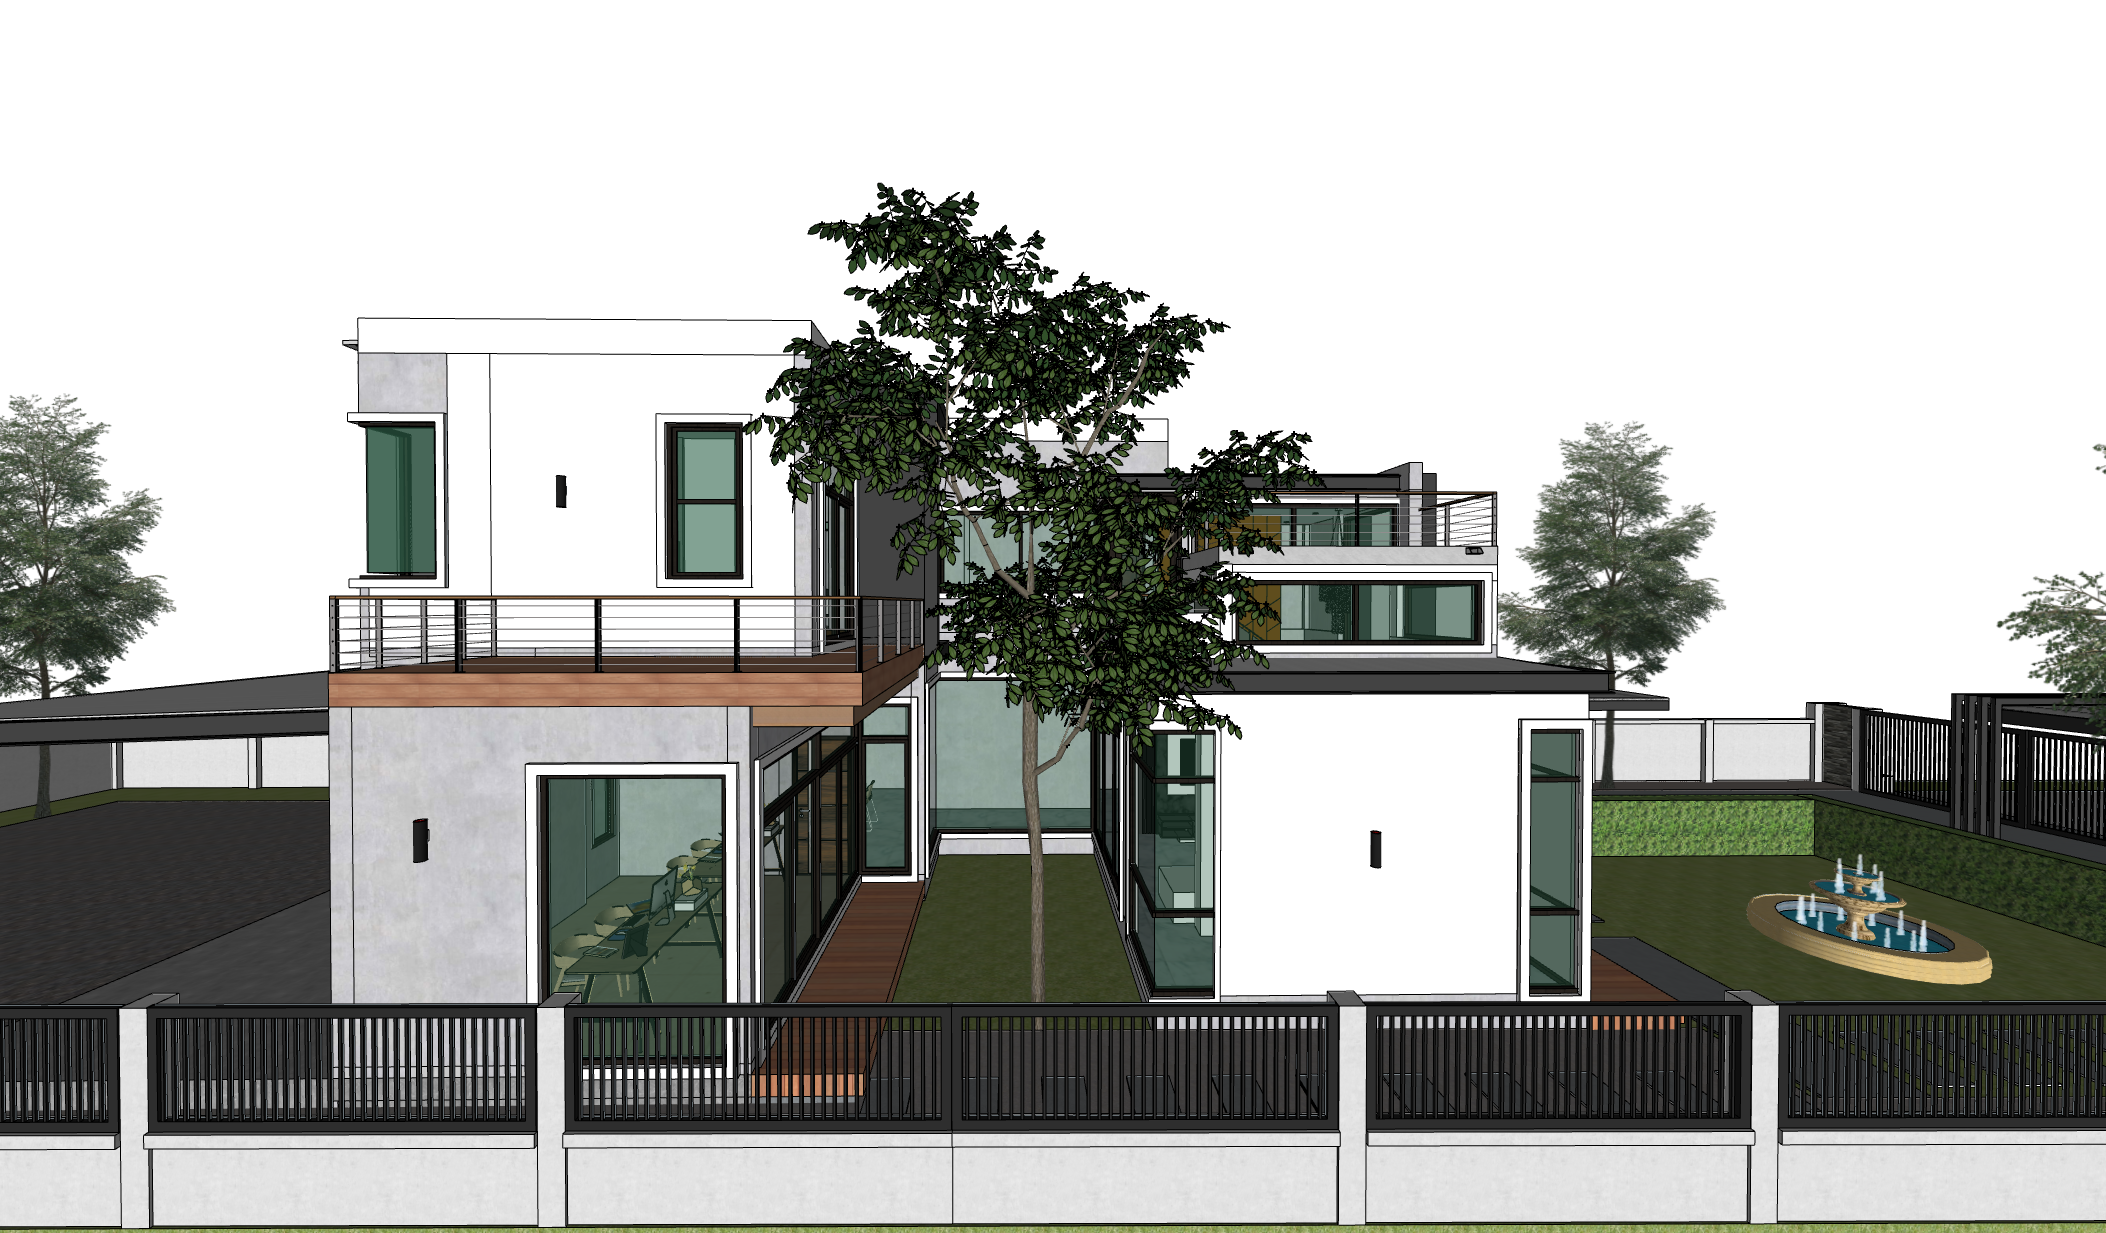
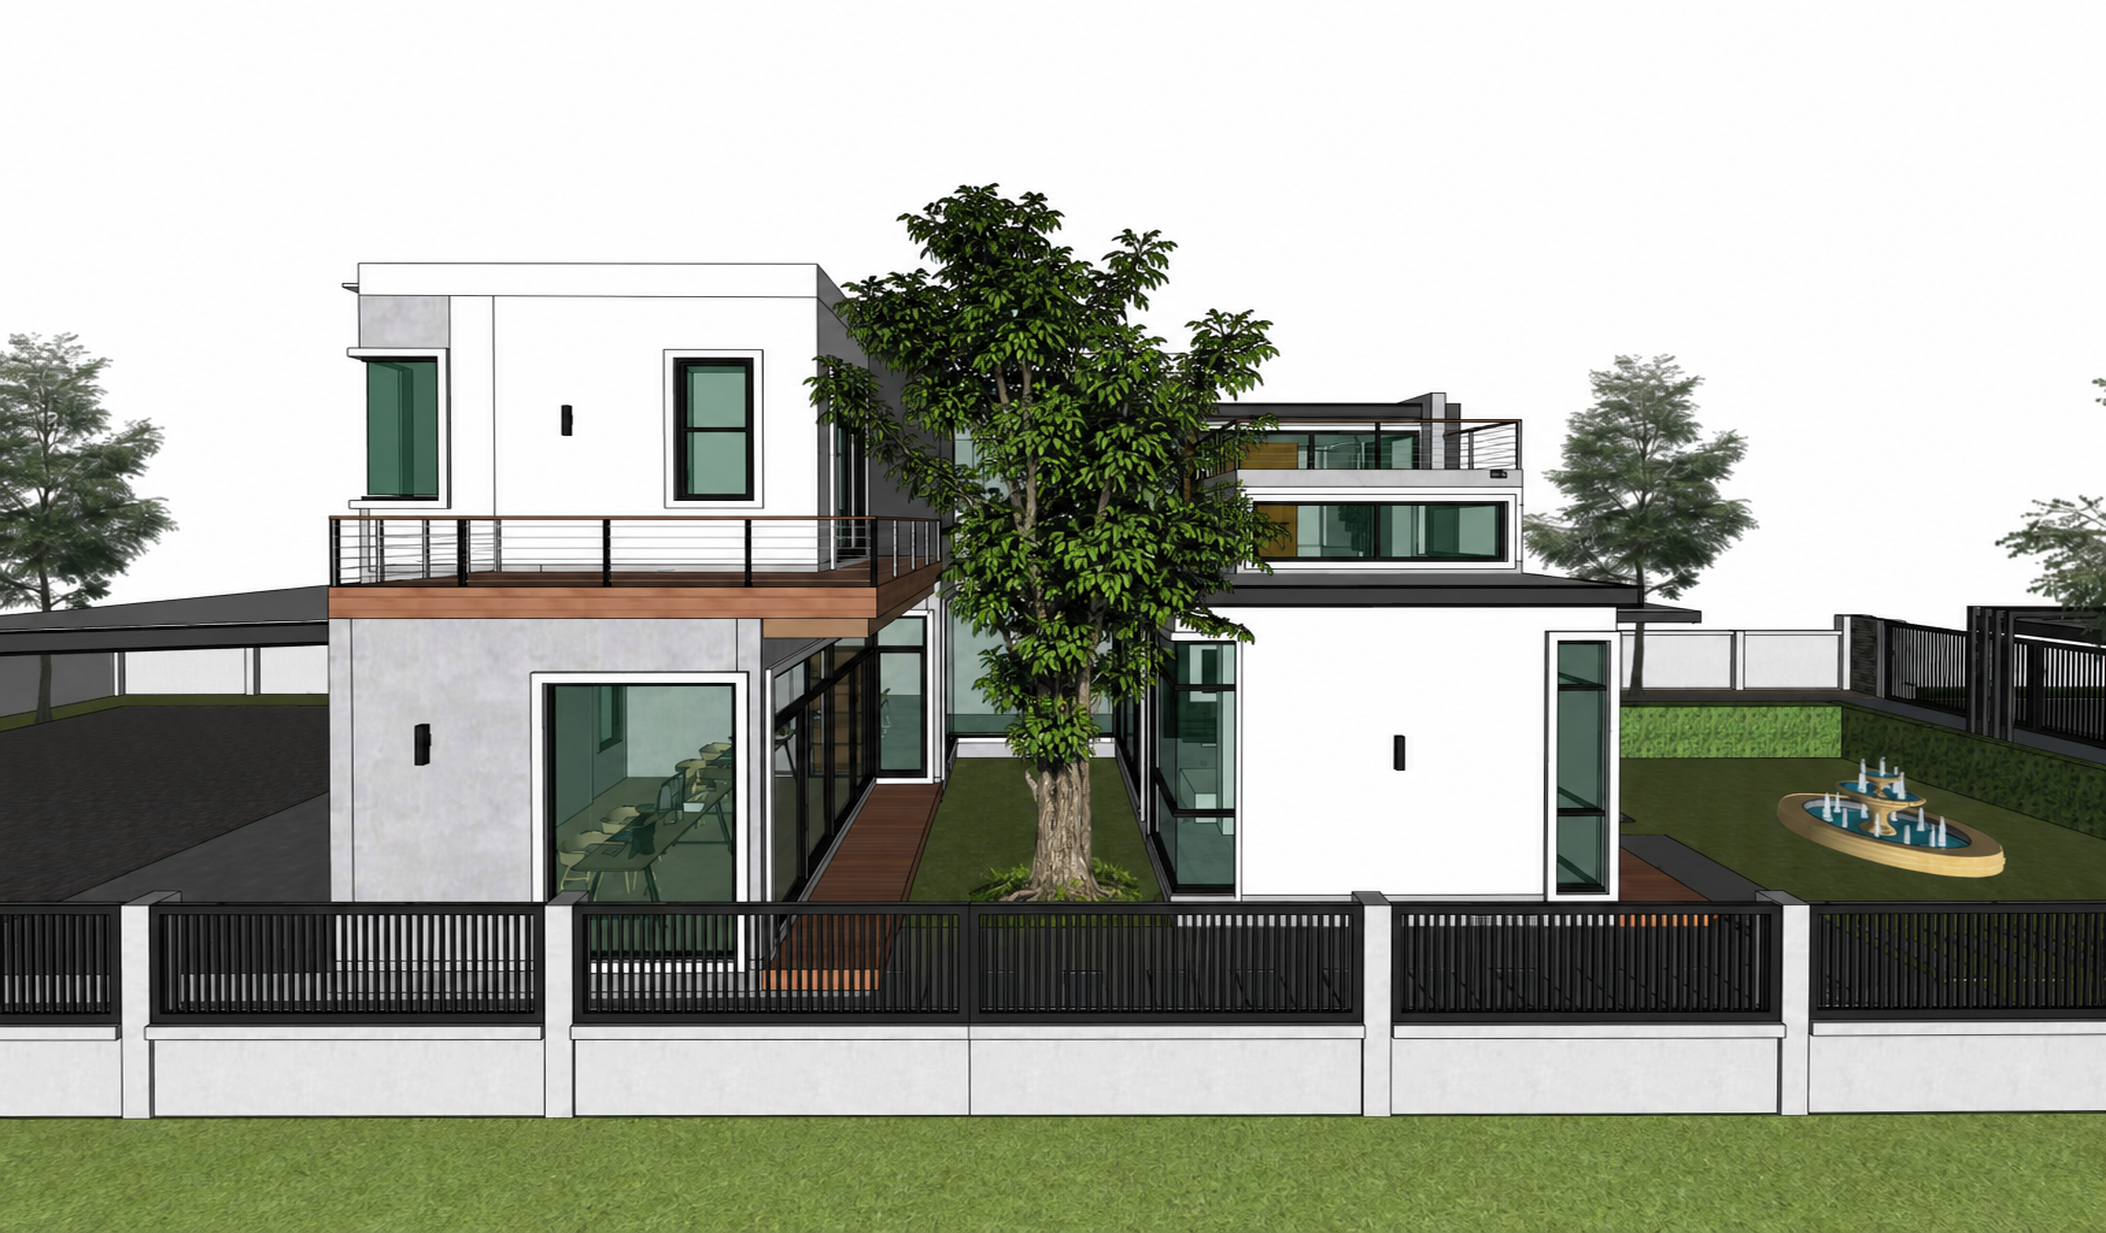
จิกระย้า

diff --git a/outline/home.html b/outline/home.html
@@ -982,17 +982,18 @@
 
                 <!-- 6. ข้างบ้านฝั่งซ้าย ตรงกลาง -->
                 <div class="image-card" data-zone="left" data-name="ข้างบ้านฝั่งซ้าย ตรงกลาง left side middle center">
-                    <div class="image-wrapper" onclick="openModal('../resources/ข้างบ้านฝั่งซ้ายตรงกลาง.png', 'ข้างบ้านฝั่งซ้าย ตรงกลาง (Left Middle View)')">
+                    <div class="image-wrapper" id="wrapper-left-middle" onclick="openModal('../resources/ข้างบ้านฝั่งซ้ายตรงกลาง_designed.png', 'ข้างบ้านฝั่งซ้าย ตรงกลาง (หลังจัดสวน)')">
                         <span class="zone-badge">ข้างบ้านฝั่งซ้าย</span>
-                        <img src="../resources/ข้างบ้านฝั่งซ้ายตรงกลาง.png" alt="ข้างบ้านฝั่งซ้ายตรงกลาง">
+                        <img id="img-left-middle" src="../resources/ข้างบ้านฝั่งซ้ายตรงกลาง_designed.png" alt="ข้างบ้านฝั่งซ้ายตรงกลาง">
+                        <span id="badge-left-middle" class="zone-badge" style="left: auto; right: 0.75rem; background-color: var(--primary-color); color: #fff;">🌳 จัดสวนแล้ว</span>
                     </div>
                     <div class="card-details">
                         <div>
                             <h3>ข้างบ้านฝั่งซ้าย ตรงกลาง</h3>
-                            <p class="filename">ข้างบ้านฝั่งซ้ายตรงกลาง.png</p>
+                            <p class="filename" id="filename-left-middle">ข้างบ้านฝั่งซ้ายตรงกลาง_designed.png</p>
                         </div>
                         <div class="card-actions">
-                            <button class="view-btn" onclick="openModal('../resources/ข้างบ้านฝั่งซ้ายตรงกลาง.png', 'ข้างบ้านฝั่งซ้าย ตรงกลาง (Left Middle View)')">
+                            <button id="btn-left-middle" class="view-btn" onclick="openModal('../resources/ข้างบ้านฝั่งซ้ายตรงกลาง_designed.png', 'ข้างบ้านฝั่งซ้าย ตรงกลาง (หลังจัดสวน)')">
                                 ขยายภาพ
                                 <svg width="12" height="12" viewBox="0 0 24 24" fill="none" stroke="currentColor" stroke-width="2.5"><path d="M15 3h6v6M9 21H3v-6M21 3l-7 7M3 21l7-7"/></svg>
                             </button>
@@ -1350,7 +1351,7 @@
             { id: 'garage-right', angle: 155, level: 'normal', name: 'โรงจอดรถ ด้านขวา', zone: 'โรงจอดรถ', src: '../resources/โรงจอดรถด้านขวา.png', designedSrc: '../resources/โรงจอดรถด้านขวา_designed.png' },
             
             { id: 'left-front', angle: 225, level: 'normal', name: 'ข้างบ้านฝั่งซ้าย ด้านหน้า', zone: 'ข้างบ้านฝั่งซ้าย', src: '../resources/ข้างบ้านฝั่งซ้ายด้านหน้า.png' },
-            { id: 'left-middle', angle: 270, level: 'normal', name: 'ข้างบ้านฝั่งซ้าย ตรงกลาง', zone: 'ข้างบ้านฝั่งซ้าย', src: '../resources/ข้างบ้านฝั่งซ้ายตรงกลาง.png' },
+            { id: 'left-middle', angle: 270, level: 'normal', name: 'ข้างบ้านฝั่งซ้าย ตรงกลาง', zone: 'ข้างบ้านฝั่งซ้าย', src: '../resources/ข้างบ้านฝั่งซ้ายตรงกลาง.png', designedSrc: '../resources/ข้างบ้านฝั่งซ้ายตรงกลาง_designed.png' },
             { id: 'left-back', angle: 315, level: 'normal', name: 'ข้างบ้านฝั่งซ้าย ด้านหลัง', zone: 'ข้างบ้านฝั่งซ้าย', src: '../resources/ข้างบ้านฝั่งซ้ายด้านหลัง.png' },
             
             { id: 'back', angle: 0, level: 'normal', name: 'หลังบ้าน', zone: 'หลังบ้าน', src: '../resources/หลังบ้าน.png' },
@@ -1631,6 +1632,7 @@
             { prefix: 'front-high', raw: '../resources/หน้าบ้านมุมสูง.png', designed: '../resources/หน้าบ้านมุมสูง_designed.png', designedTitle: 'หน้าบ้าน มุมสูง (หลังจัดสวน)', rawTitle: 'หน้าบ้าน มุมสูง (โครงสร้างเดิม)', designedFile: 'หน้าบ้านมุมสูง_designed.png', rawFile: 'หน้าบ้านมุมสูง.png' },
             { prefix: 'garage-front', raw: '../resources/โรงจอดรถด้านหน้า.png', designed: '../resources/โรงจอดรถด้านหน้า_designed.png', designedTitle: 'โรงจอดรถ ด้านหน้า (หลังจัดสวน)', rawTitle: 'โรงจอดรถ ด้านหน้า (โครงสร้างเดิม)', designedFile: 'โรงจอดรถด้านหน้า_designed.png', rawFile: 'โรงจอดรถด้านหน้า.png' },
             { prefix: 'garage-right', raw: '../resources/โรงจอดรถด้านขวา.png', designed: '../resources/โรงจอดรถด้านขวา_designed.png', designedTitle: 'โรงจอดรถ ด้านขวา (หลังจัดสวน)', rawTitle: 'โรงจอดรถ ด้านขวา (โครงสร้างเดิม)', designedFile: 'โรงจอดรถด้านขวา_designed.png', rawFile: 'โรงจอดรถด้านขวา.png' },
+            { prefix: 'left-middle', raw: '../resources/ข้างบ้านฝั่งซ้ายตรงกลาง.png', designed: '../resources/ข้างบ้านฝั่งซ้ายตรงกลาง_designed.png', designedTitle: 'ข้างบ้านฝั่งซ้าย ตรงกลาง (หลังจัดสวน)', rawTitle: 'ข้างบ้านฝั่งซ้าย ตรงกลาง (โครงสร้างเดิม)', designedFile: 'ข้างบ้านฝั่งซ้ายตรงกลาง_designed.png', rawFile: 'ข้างบ้านฝั่งซ้ายตรงกลาง.png' },
         ];
 
         function setGlobalMode(mode) {